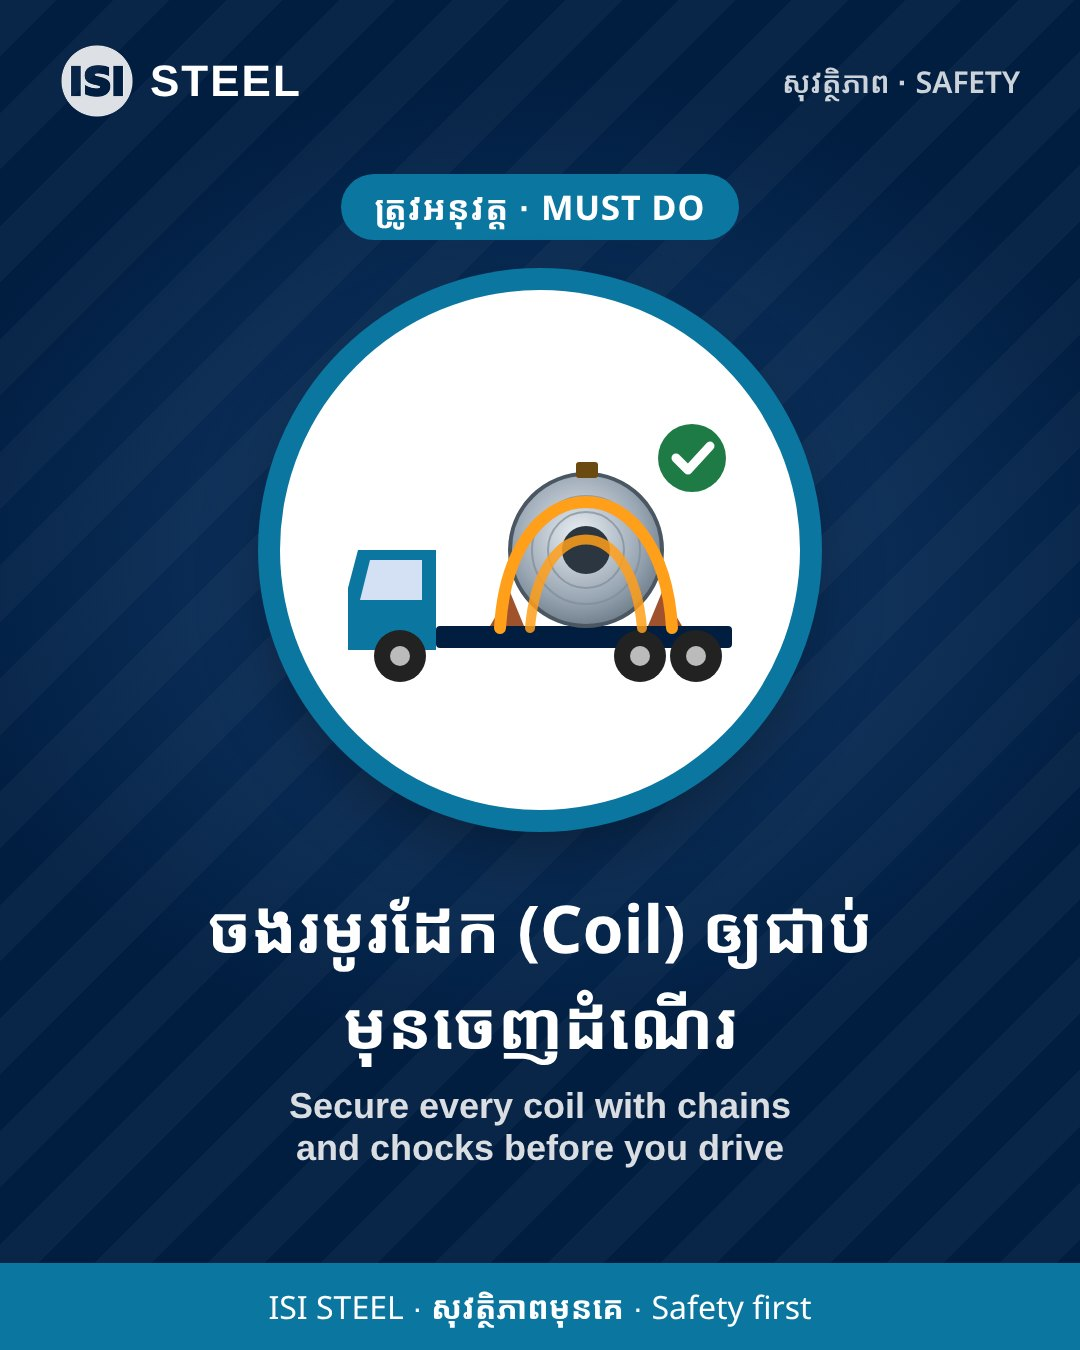
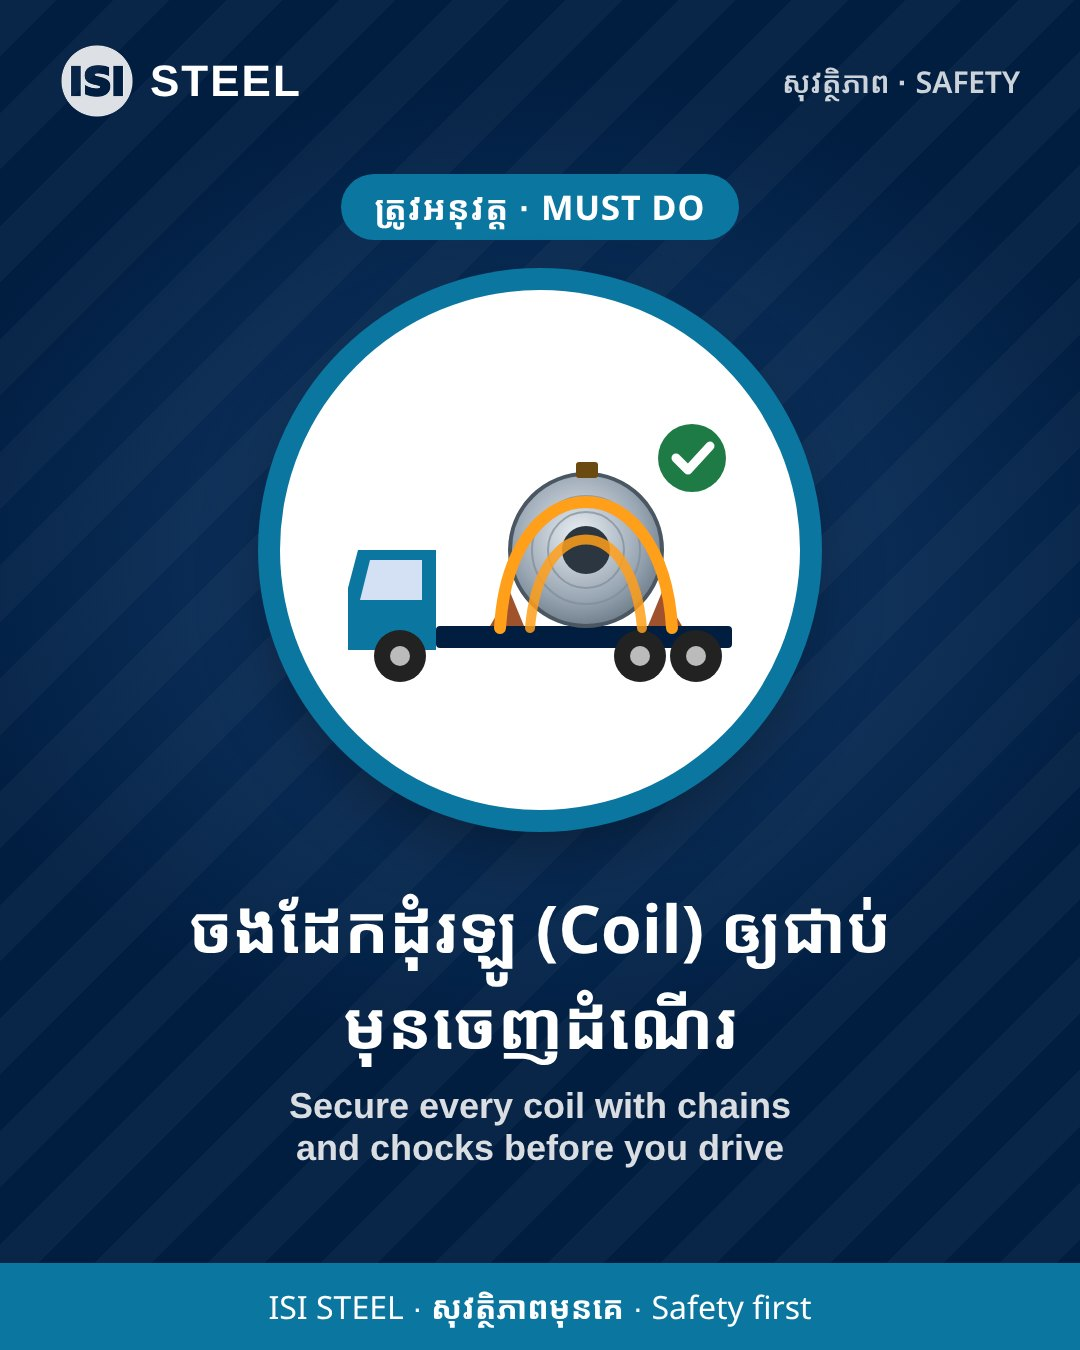
Ads: coil word ដែកដុំរឡូ
Claude-Session: https://claude.ai/code/session_01A6eSje5u6Dt5wWDhzRa4mg

Changed region(s): [[0.1833, 0.6533, 0.825, 0.7467]]

diff --git a/web/manual/ads/index.html b/web/manual/ads/index.html
@@ -21,10 +21,10 @@ footer{text-align:center;color:var(--muted);font-size:12px;padding:8px 16px 28px
 <p class="how">១. ចុច <b>រក្សាទុករូបភាព</b> (ឬ ចុចលើរូបឲ្យយូរ) · ២. ក្នុងកម្មវិធីចាក់សាំង ចូល 📣 ផ្សព្វផ្សាយ → បង្ហោះថ្មី → ជ្រើសរូបនេះ · ៣. ចម្លង អក្សរក្រហម ដាក់ក្នុងប្រអប់អក្សរក្រហម<br>
 1. Save the image · 2. In the Fuel app open 📣 Ads → Post new → choose it · 3. Copy the red text into the red text box</p>
 <div class="g">
-<figure class="c"><img src="01-secure-coils.jpg" alt="Secure every coil with chains and chocks before you drive" loading="lazy">
-<figcaption><b>ចងរមូរដែក (Coil) ឲ្យជាប់ មុនចេញដំណើរ</b><small>Secure every coil with chains and chocks before you drive</small>
-<div class="red"><span>អក្សរក្រហម · Red text</span><q>ចងរមូរដែកឲ្យជាប់ សុវត្ថិភាពមុនគេ!</q><button type="button" data-t="ចងរមូរដែកឲ្យជាប់ សុវត្ថិភាពមុនគេ!">ចម្លង · Copy</button></div>
-<a class="dl" href="01-secure-coils.jpg" download>⬇ រក្សាទុករូបភាព · Save image</a></figcaption></figure>
+<figure class="c"><img src="01-secure-coils.jpg?v=2" alt="Secure every coil with chains and chocks before you drive" loading="lazy">
+<figcaption><b>ចងដែកដុំរឡូ (Coil) ឲ្យជាប់ មុនចេញដំណើរ</b><small>Secure every coil with chains and chocks before you drive</small>
+<div class="red"><span>អក្សរក្រហម · Red text</span><q>ចងដែកដុំរឡូឲ្យជាប់ សុវត្ថិភាពមុនគេ!</q><button type="button" data-t="ចងដែកដុំរឡូឲ្យជាប់ សុវត្ថិភាពមុនគេ!">ចម្លង · Copy</button></div>
+<a class="dl" href="01-secure-coils.jpg?v=2" download>⬇ រក្សាទុករូបភាព · Save image</a></figcaption></figure>
 <figure class="c"><img src="02-no-beer.jpg" alt="No beer or alcohol during working hours" loading="lazy">
 <figcaption><b>ហាមផឹកស្រា បៀរ ក្នុងម៉ោងធ្វើការ</b><small>No beer or alcohol during working hours</small>
 <div class="red"><span>អក្សរក្រហម · Red text</span><q>ហាមផឹកស្រា បៀរ ពេលធ្វើការ!</q><button type="button" data-t="ហាមផឹកស្រា បៀរ ពេលធ្វើការ!">ចម្លង · Copy</button></div>
